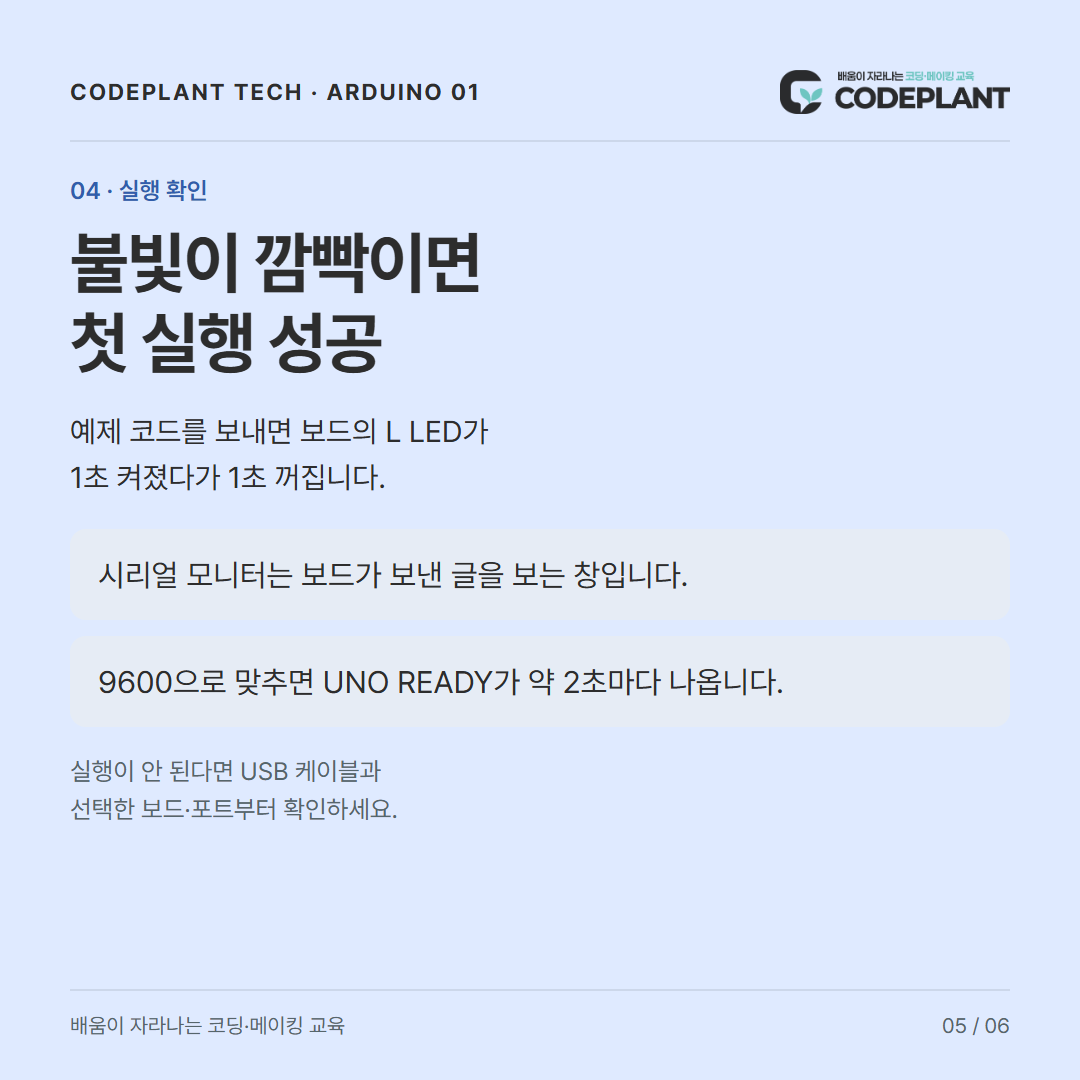
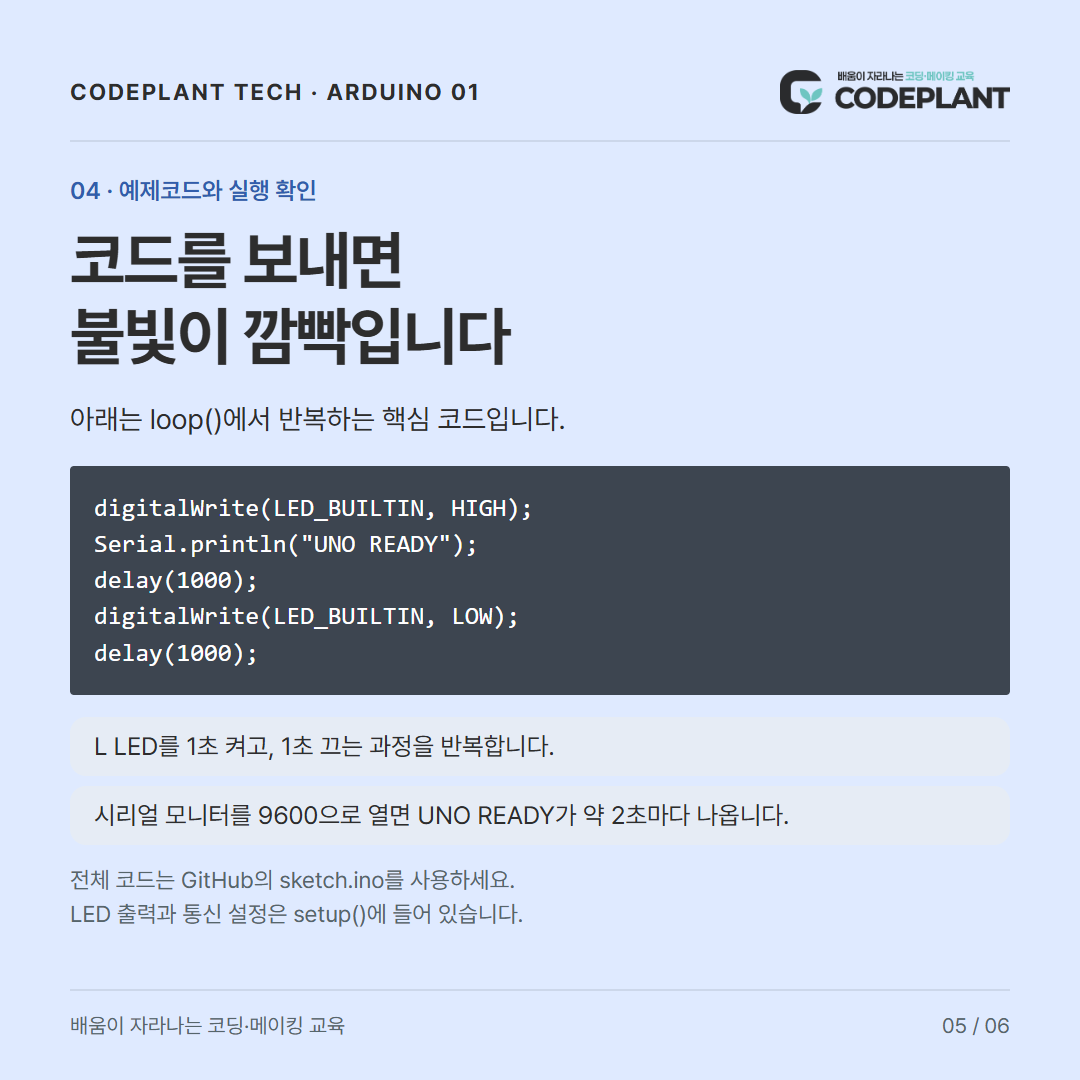
Update arduino-001-basic-setup educational cards and code

diff --git a/README.md b/README.md
@@ -115,3 +115,36 @@ UNO READY
 이 안내문과 Documentation 참고 화면 및 이를 포함한 표지 카드는 [CC BY-SA 4.0](https://creativecommons.org/licenses/by-sa/4.0/)으로 제공합니다. Help Center 화면은 원본 저장소의 라이선스를 따르며, UNO 사진은 [CC BY 2.0](https://creativecommons.org/licenses/by/2.0/)입니다. 상표와 공식 로고의 권리는 각 소유자에게 있습니다.
 
 자료 확인: 2026-10-05. 카테고리: 기본 세팅 · 파랑. 다음 편: 신호처리.
+
+## 전체 예제코드
+
+아래 코드를 모두 복사하거나 sketch.ino를 열어 업로드하세요. 카드에는 핵심 부분만 담았습니다.
+
+~~~cpp
+// CODEPLANT TECH 01: UNO R3 + Arduino IDE
+// LED L: 1 second on, 1 second off. Serial: one line every 2 seconds.
+void setup() {
+  pinMode(LED_BUILTIN, OUTPUT);
+  Serial.begin(9600);
+}
+
+void loop() {
+  digitalWrite(LED_BUILTIN, HIGH);
+  Serial.println("UNO READY");
+  delay(1000);
+  digitalWrite(LED_BUILTIN, LOW);
+  delay(1000);
+}
+~~~
+
+| 코드 | 하는 일 |
+| --- | --- |
+| pinMode(LED_BUILTIN, OUTPUT) | 보드의 L LED를 출력으로 설정 |
+| Serial.begin(9600) | 9600 속도로 PC와 통신 준비 |
+| digitalWrite(..., HIGH) | L LED 켜기 |
+| Serial.println("UNO READY") | 시리얼 모니터로 문장 보내기 |
+| delay(1000) | 1초 기다리기 |
+| digitalWrite(..., LOW) | L LED 끄기 |
+
+setup()은 시작할 때 한 번, loop()는 계속 반복합니다. 대기가 두 번이므로 문장은 약 2초 간격입니다.
+
